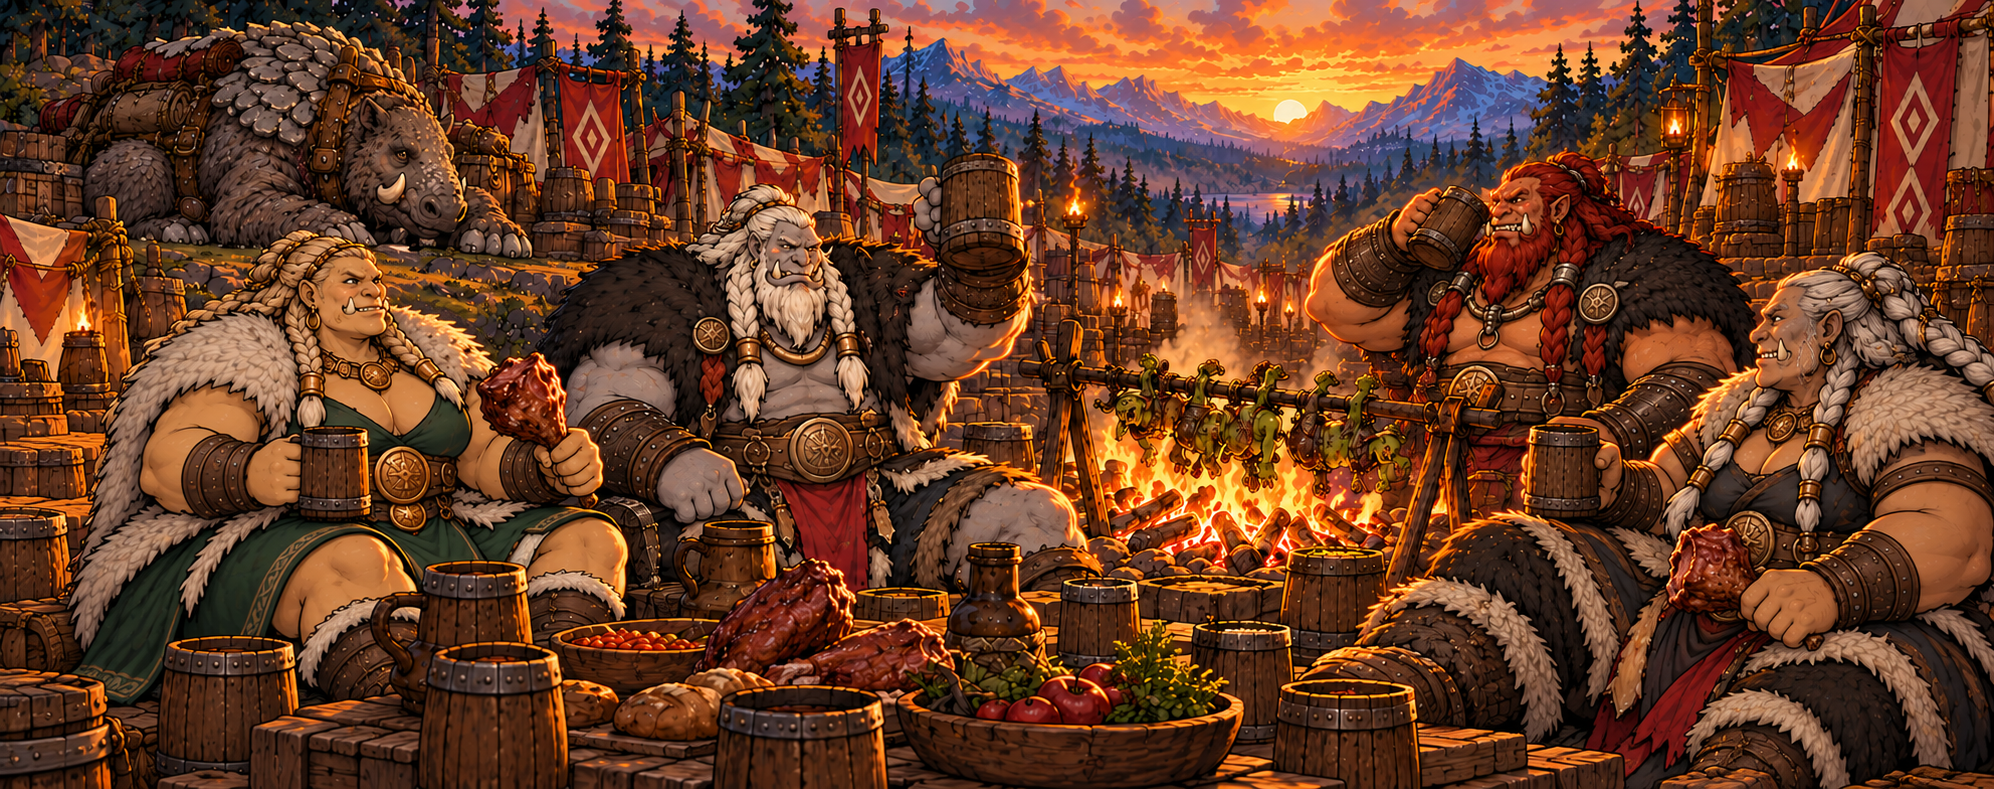
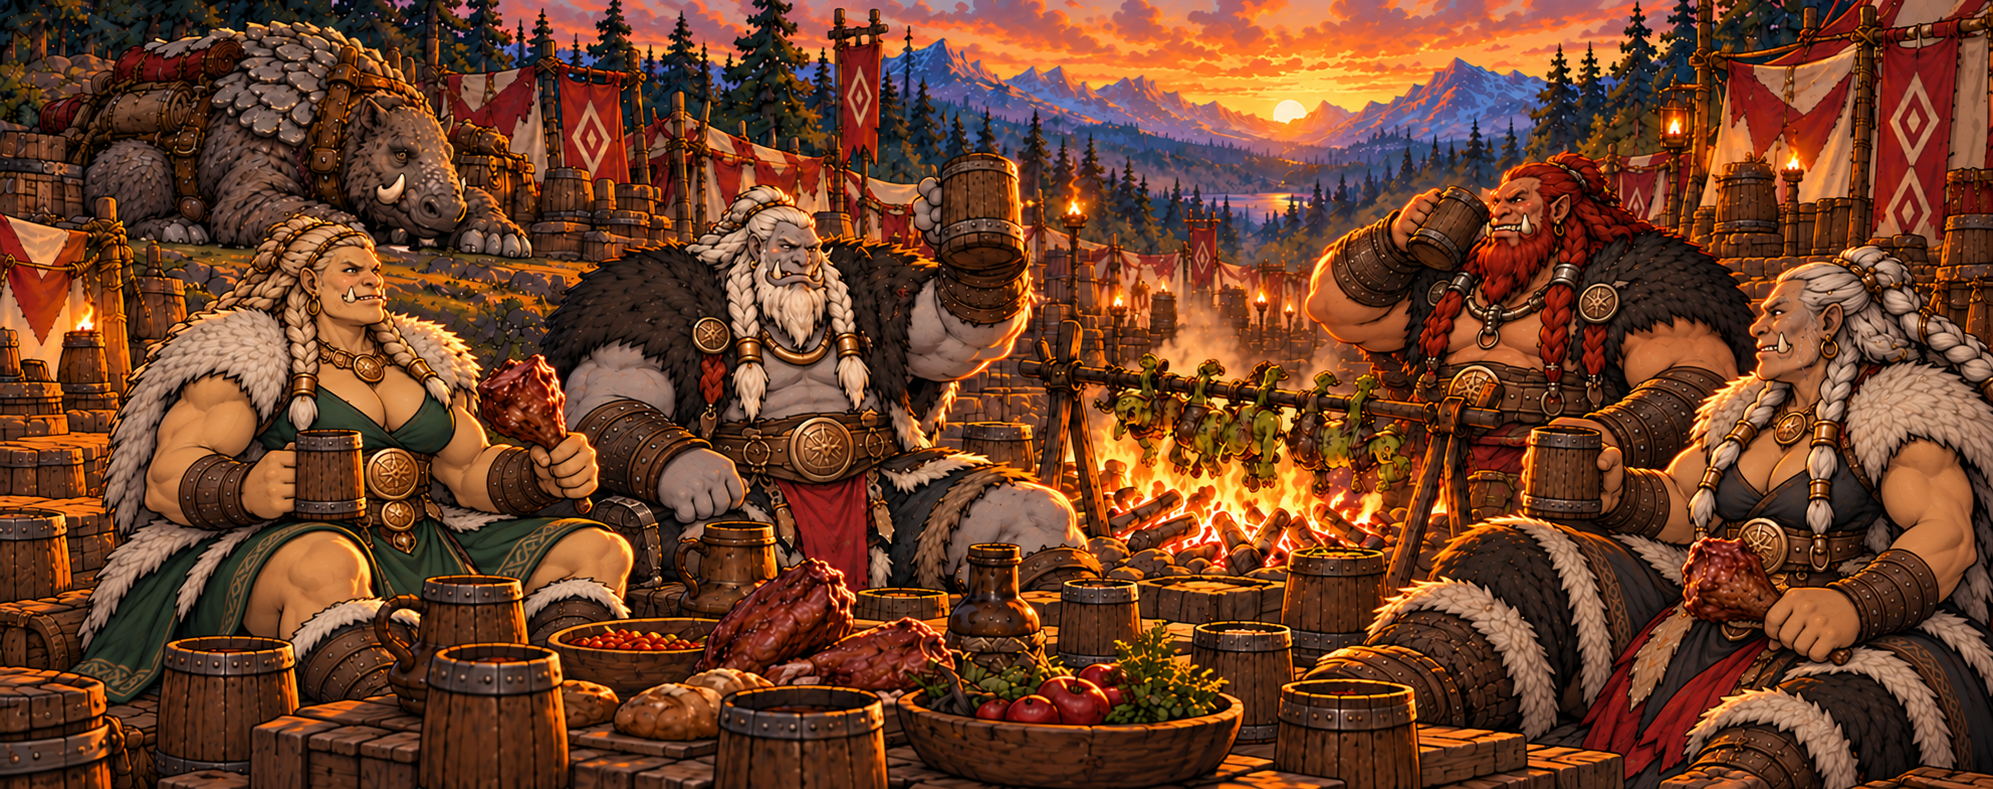
Refine feast character proportions to match sprites [skip ci]

Changed region(s): [[0.0, 0.0, 1.0, 1.0], [0.6844, 0.1521, 0.7155, 0.1825]]

diff --git a/docs/LOADING_ART_PROMPTS.md b/docs/LOADING_ART_PROMPTS.md
@@ -36,3 +36,9 @@ Prompt: Revise reference image 1 into one widescreen adult-fantasy loading illus
 Final feast refinement references: the prior feast candidate plus `assets/chapter/gorund.png`, `assets/chapter/thyra.png`, `assets/chapter/hrothgar.png`.
 
 Prompt: Refine the first image into a single widescreen scene of the same Ogre clan feasting, preserving its composition and the goblins roasting on a spit for dark humor. There are exactly four DISTINCT Ogre clan members total: one imposing white-haired gray-skinned tusked elder man based on reference 2; one imposing powerful blonde-braided tusked woman in green and pale fur based on reference 3; one strong muscular red-haired tusked bearded man based on reference 4; and one distinct older woman with gray braids, broad build and leather/furs. Each character appears exactly once: NO duplicated people, no clones, no background characters, no reflections. Match the actual game sprite reference faces, lower tusks, stocky body shapes, fur and leather clothing and restrained inked fantasy style. At the fire, small green goblins roast on the spit as a darkly funny background detail; no close-up gore. Their living healthy gray shaggy stone-plated pack beast rests safely at camp. Adults share food and tankards with rugged camaraderie, dusk light, red-and-ivory camp, grounded earthy palette. No animal wounds or animal carcasses; no text or logos.
+
+## Female Ogre proportions for 0.8.5
+
+References: the 0.8.4 feast, `assets/chapter/thyra.png`, and `assets/chapter/portraits_kin.png`.
+
+Prompt: Edit the first image, the widescreen Ogre clan feast illustration. Keep the full composition, camp, sunset, four Ogre clan members, their outfits and faces, foreground food, healthy stone-plated beast, and small green goblins on the spit. Adjust ONLY the body shapes of the two female Ogres on the left and far right so they match the actual female in-game Ogre sprite in image 2 and female portrait in image 3. They should be tall, powerful, muscular and athletic, with defined strong shoulders and arms, narrower waists, and balanced, relatively lean heroic proportions; less round through the midsection and hips, not portly or overweight. They remain distinctly Ogre with their lower tusks, adult faces, braided hair, existing fur mantles and same clothing colors. The gray-braided elder woman is an imposing strong elder, not frail. Preserve the other characters and overall grounded, richly inked adult fantasy game style. Keep the darkly funny goblin roast and uninjured animal; no injured animals, text, logos or UI. Single full-bleed widescreen image.

diff --git a/docs/SESSION_HANDOFF.md b/docs/SESSION_HANDOFF.md
@@ -1,6 +1,6 @@
-# Ogre feast art revision — work in progress
+# Feast character refinement — work in progress
 
-The user requested that the clan feast feel like Ogres rather than warm Disney characters, match the established game art, and have dark humor such as goblins on a spit. They also want no wounded animals on loading screens; combat violence, blood and finishers remain unchanged. Version 0.8.4 will supersede the previous loading-art build after validation.
+The user requested that the women in the feast illustration have leaner, athletic builds closer to the existing female Ogre sprites. Keep their strong Ogre appearance and the goblin-on-a-spit dark humor; animals remain unharmed. Combat violence, blood and finishers remain unchanged. Version 0.8.5 will supersede the previous art build after validation.
 
 ---
 

diff --git a/docs/state/current.md b/docs/state/current.md
@@ -1,6 +1,6 @@
-# Ogre feast art revision — work in progress
+# Feast character refinement — work in progress
 
-The user requested that the clan feast feel like Ogres rather than warm Disney characters, match the established game art, and have dark humor such as goblins on a spit. They also want no wounded animals on loading screens; combat violence, blood and finishers remain unchanged. Version 0.8.4 will supersede the previous loading-art build after validation.
+The user requested that the women in the feast illustration have leaner, athletic builds closer to the existing female Ogre sprites. Keep their strong Ogre appearance and the goblin-on-a-spit dark humor; animals remain unharmed. Combat violence, blood and finishers remain unchanged. Version 0.8.5 will supersede the previous art build after validation.
 
 ---
 

diff --git a/docs/state/decisions.md b/docs/state/decisions.md
@@ -1,3 +1,9 @@
+# Female Ogre proportions
+
+The women in the feast should match the existing in-game female Ogre sprites: leaner, athletic and strong rather than portly. Keep strong older women as well as the clan’s distinct Ogre features.
+
+---
+
 # Feast art direction
 
 The clan can enjoy a feast but should look like the Ogres in established game art, feel rugged and dangerous, and include dark humor such as goblins on a spit. Avoid wounded animals in the loading art. Combat violence and blood remain welcome.

diff --git a/docs/RELEASE_0_8_5.md b/docs/RELEASE_0_8_5.md
@@ -1,0 +1,5 @@
+# Hearth and Hunger 0.8.5 — The Clan
+
+The loading artwork uses the in-game Ogre sprites as character references. The clan feast retains its goblin-on-a-spit dark humor, with the women’s builds adjusted toward their athletic in-game counterparts. The snowy tracking companion remains unharmed.
+
+Combat violence, blood and the existing bite and swallow finishers remain unchanged.
